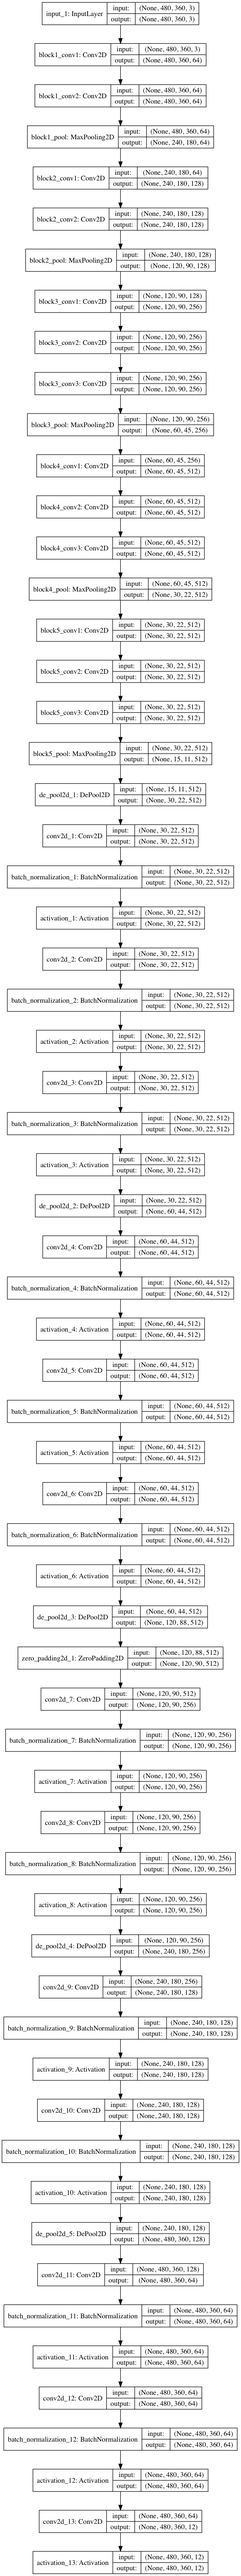
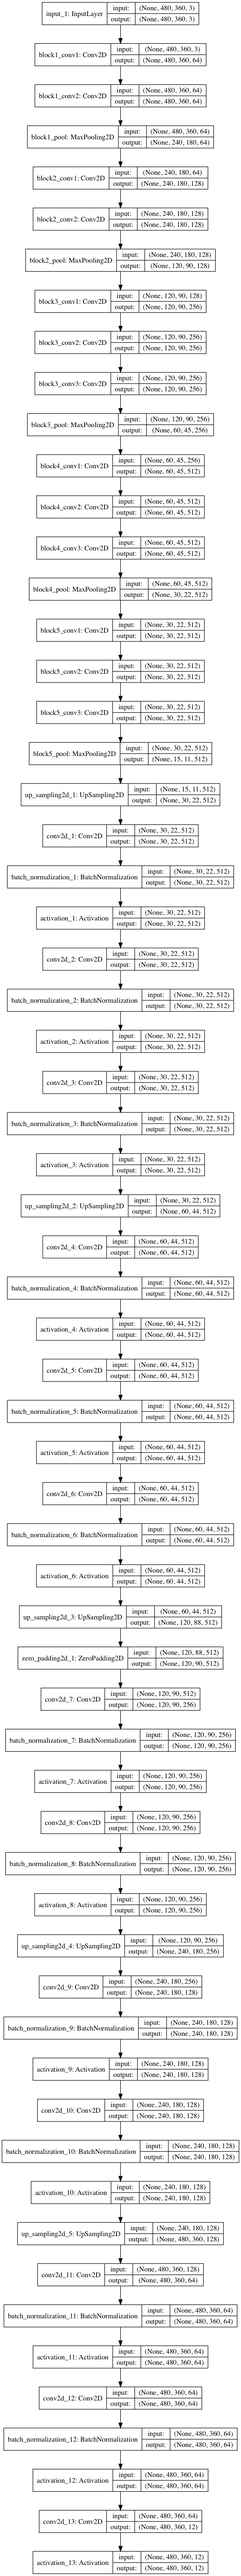
change defalut setting to unuse indices pooling

Changed region(s): [[0.8677, 0.8419, 0.8976, 0.8731], [0.8677, 0.7483, 0.8976, 0.7795]]

diff --git a/SegNet.py b/SegNet.py
@@ -20,22 +20,7 @@ from keras.backend import argmax, gradients, sum, repeat_elements
 class DePool2D(UpSampling2D):
     '''
     https://github.com/nanopony/keras-convautoencoder/blob/c8172766f968c8afc81382b5e24fd4b57d8ebe71/autoencoder_layers.py#L24
-    Simplar to UpSample, yet traverse only maxpooled elements
-    # Input shape
-        4D tensor with shape:
-        `(samples, channels, rows, cols)` if dim_ordering='th'
-        or 4D tensor with shape:
-        `(samples, rows, cols, channels)` if dim_ordering='tf'.
-    # Output shape
-        4D tensor with shape:
-        `(samples, channels, upsampled_rows, upsampled_cols)` if dim_ordering='th'
-        or 4D tensor with shape:
-        `(samples, upsampled_rows, upsampled_cols, channels)` if dim_ordering='tf'.
-    # Arguments
-        size: tuple of 2 integers. The upsampling factors for rows and columns.
-        dim_ordering: 'th' or 'tf'.
-            In 'th' mode, the channels dimension (the depth)
-            is at index 1, in 'tf' mode is it at index 3.
+    Simplar to UpSample, yet traverse only maxpooled elements.
     '''
 
     def __init__(self, pool2d_layer: MaxPooling2D, *args, **kwargs):
@@ -44,23 +29,12 @@ class DePool2D(UpSampling2D):
 
     def get_output(self, train: bool=False) -> Any :
         X = self.get_input(train)
-        if self.dim_ordering == 'th':
-            output = repeat_elements(X, self.size[0], axis=2)
-            output = repeat_elements(output, self.size[1], axis=3)
-        elif self.dim_ordering == 'tf':
-            output = repeat_elements(X, self.size[0], axis=1)
-            output = repeat_elements(output, self.size[1], axis=2)
-        else:
-            raise Exception('Invalid dim_ordering: ' + self.dim_ordering)
-
-        f = gradients(
+        return gradients(
             sum(
                 self._pool2d_layer.get_output(train)
             ),
             self._pool2d_layer.get_input(train)
         ) * output
-
-        return f
 
 
 def create_segnet(shape: Tuple[int,int,int], nb_class: int, indecis: bool) -> tModel :
@@ -163,7 +137,7 @@ def load() -> tModel :
 
 
 if __name__ == '__main__':
-    segnet = create_segnet((480, 360, 3), 12, indecis=True)
+    segnet = create_segnet((480, 360, 3), 12, indecis=False)
     segnet.summary()
     plot_model(segnet, to_file='segnet.png', show_shapes=True, show_layer_names=True)
     exit()
